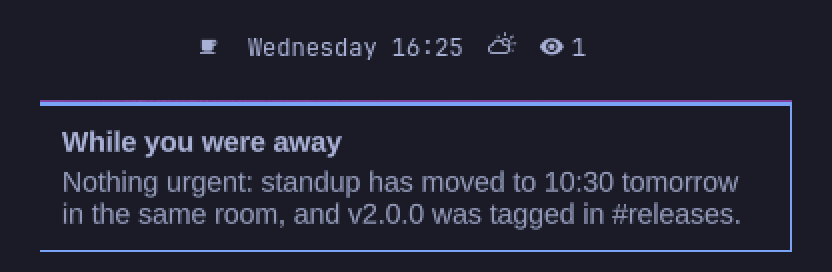
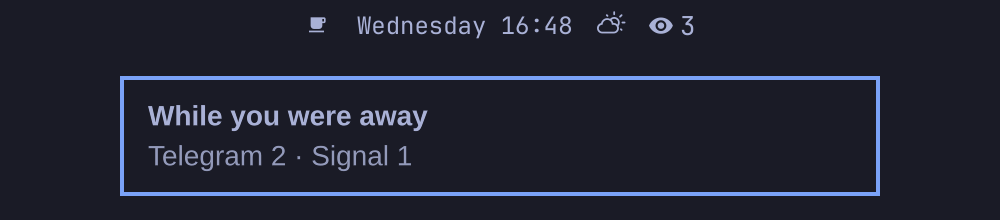
docs(readme): retake preview.png at 2x with the per-app count; state the agent summary as opt-in
Claude-Session: https://claude.ai/code/session_01JMaEt7xqWs4arHRFm94UEt

Changed region(s): [[0.0312, 0.3273, 0.9688, 0.9273], [0.2188, 0.0545, 0.7188, 0.2182]]

diff --git a/README.md b/README.md
@@ -2,9 +2,9 @@
 
 One named Hyprland workspace for the apps and sites that take your attention, and a plugin that keeps them there.
 
-![The Omarchy bar showing the distraction-space eye glyph with one held notification, and the "While you were away" notice summarizing what was held](preview.png)
+![The Omarchy bar showing the distraction-space eye glyph with three held notifications, and the "While you were away" notice listing the per-app count](preview.png)
 
-You list Telegram, X, YouTube, and whatever else pulls you off task. Their windows open on the workspace `name:distraction` and get moved back when they land anywhere else. Their sites are refused at the network while you work elsewhere, so the tab you opened out of habit gets a block page instead of the feed. Their notifications wait, native apps' sounds stay muted, the bar shows how many are waiting, and when you come back one line from your own agent tells you whether any of them needed you. Lock the space for 25 minutes and it refuses to open until the timer runs out or you type 50 characters saying why you are leaving early.
+You list Telegram, X, YouTube, and whatever else pulls you off task. Their windows open on the workspace `name:distraction` and get moved back when they land anywhere else. Their sites are refused at the network while you work elsewhere, so the tab you opened out of habit gets a block page instead of the feed. Their notifications wait, native apps' sounds stay muted, the bar shows how many are waiting, and when you come back one notice tells you what was held, per app, or, if you turn it on, one line from your own agent saying whether any of them needed you. Lock the space for 25 minutes and it refuses to open until the timer runs out or you type 50 characters saying why you are leaving early.
 
 ## Install
 
